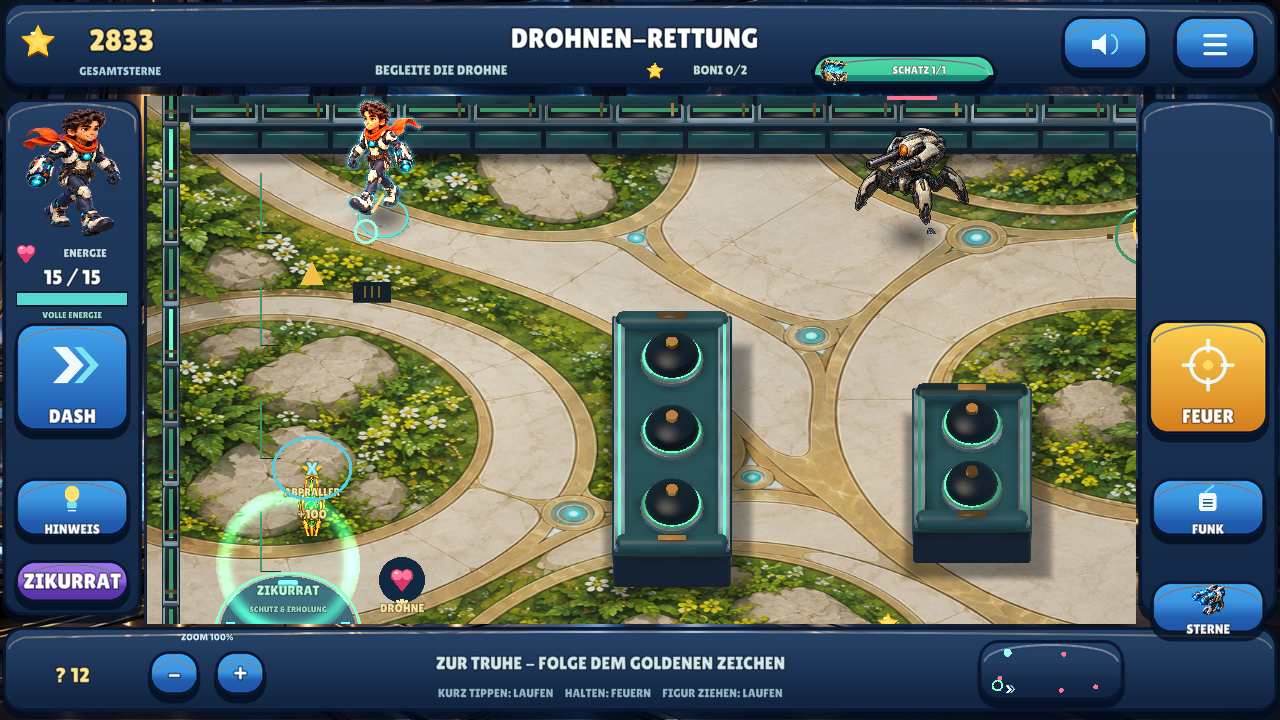
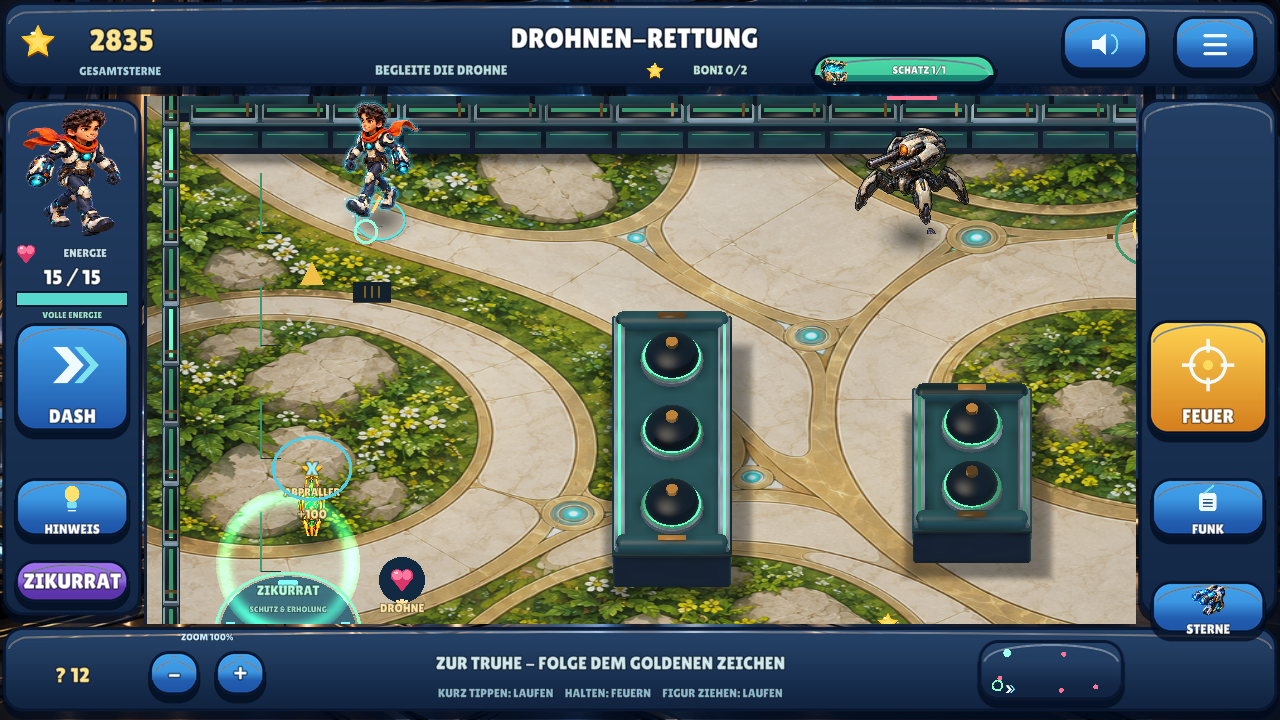
fix: keep tactical menus readable at maximum scene zoom

Changed region(s): [[0.25, 0.1222, 0.3438, 0.3361], [0.0938, 0.0306, 0.125, 0.0611]]

diff --git a/tools/check_defold.py b/tools/check_defold.py
@@ -20,6 +20,7 @@ with tempfile.TemporaryDirectory(prefix='energyblast-defold-test-',dir='/tmp')as
  commands.append(['xvfb-run','-a','-s','-screen 0 1600x1600x24',sys.executable,str(ROOT/'tools/check_defold_resilience_ui.py'),'--engine',str(a.sdk/'dmengine')])
  commands.append(['xvfb-run','-a','-s','-screen 0 1600x1600x24',sys.executable,str(ROOT/'tools/check_defold_polish_ui.py'),'--engine',str(a.sdk/'dmengine')])
  commands.append(['xvfb-run','-a','-s','-screen 0 1600x1600x24',sys.executable,str(ROOT/'tools/check_defold_hero_glow.py'),'--engine',str(a.sdk/'dmengine')])
+ commands.append(['xvfb-run','-a','-s','-screen 0 1600x1600x24',sys.executable,str(ROOT/'tools/check_defold_traps.py'),'--engine',str(a.sdk/'dmengine'),'--zoom','1.75'])
  for i,cmd in enumerate(commands):
   process=subprocess.Popen(cmd,env=env,stdout=subprocess.PIPE,stderr=subprocess.STDOUT,text=True,cwd=ROOT,start_new_session=True)
   try:log,_=process.communicate(timeout=90)
@@ -28,6 +29,6 @@ with tempfile.TemporaryDirectory(prefix='energyblast-defold-test-',dir='/tmp')as
   code=process.returncode
   if code or 'ERROR:'in log:print(log[-7000:]);raise SystemExit(code or 1)
   if i>0:
-   expected=r'DEFOLD COMBAT: \d+ native checks PASS'if i==1 else('DEFOLD SAVE WRITE PASS'if i==2 else'DEFOLD SAVE RESTART PASS'if i==3 else'DEFOLD NATIVE MENU AND FIRE CLICK PASS'if i in [4,7] else'DEFOLD ACTUAL MUSIC OUTPUT / MUTE PASS'if i==5 else'DEFOLD NATIVE FIELD TRAP CANCEL / THREE TYPES / BATTLEFIELD COORDINATES PASS'if i==8 else'DEFOLD NATIVE HERO / SPENDING / TREASURE / BONUS / NEXT FLOW PASS'if i==9 else'DEFOLD NATIVE HOLD FIRE / IMMEDIATE PADDED TARGET / DRAG / BUFFER PASS'if i==10 else'DEFOLD ACTUAL ENERGY SHIELD PIXEL PASS'if i==11 else'DEFOLD NATIVE REFILL / WEAPON / ARMOR / SANCTUARY PASS'if i==12 else'DEFOLD NATIVE ZOOM / SIX TREASURES / HINTS PASS'if i==13 else'DEFOLD ACTUAL HERO SHIMMER PIXEL PASS'if i==14 else'DEFOLD ACTUAL WALL OCCLUSION PASS')
+   expected=r'DEFOLD COMBAT: \d+ native checks PASS'if i==1 else('DEFOLD SAVE WRITE PASS'if i==2 else'DEFOLD SAVE RESTART PASS'if i==3 else'DEFOLD NATIVE MENU AND FIRE CLICK PASS'if i in [4,7] else'DEFOLD ACTUAL MUSIC OUTPUT / MUTE PASS'if i==5 else'DEFOLD NATIVE FIELD TRAP CANCEL / THREE TYPES / BATTLEFIELD COORDINATES PASS'if i==8 else'DEFOLD NATIVE HERO / SPENDING / TREASURE / BONUS / NEXT FLOW PASS'if i==9 else'DEFOLD NATIVE HOLD FIRE / IMMEDIATE PADDED TARGET / DRAG / BUFFER PASS'if i==10 else'DEFOLD ACTUAL ENERGY SHIELD PIXEL PASS'if i==11 else'DEFOLD NATIVE REFILL / WEAPON / ARMOR / SANCTUARY PASS'if i==12 else'DEFOLD NATIVE ZOOM / SIX TREASURES / HINTS PASS'if i==13 else'DEFOLD ACTUAL HERO SHIMMER PIXEL PASS'if i==14 else'DEFOLD NATIVE FIELD TRAP CANCEL / THREE TYPES / BATTLEFIELD COORDINATES PASS'if i==15 else'DEFOLD ACTUAL WALL OCCLUSION PASS')
    assert re.search(expected,log),log
    print('\n'.join(line for line in log.splitlines()if 'PASS'in line))

diff --git a/tools/check_defold_traps.py b/tools/check_defold_traps.py
@@ -7,7 +7,7 @@ import argparse,ctypes,os,re,subprocess,tempfile,time
 from pathlib import Path
 from PIL import ImageGrab
 ROOT=Path(__file__).resolve().parents[1]
-p=argparse.ArgumentParser();p.add_argument('--engine',type=Path,default=Path('/tmp/energyblast-defold-tools/dmengine'));p.add_argument('--project',type=Path,default=ROOT/'pilots/defold');p.add_argument('--output',type=Path);a=p.parse_args()
+p=argparse.ArgumentParser();p.add_argument('--engine',type=Path,default=Path('/tmp/energyblast-defold-tools/dmengine'));p.add_argument('--project',type=Path,default=ROOT/'pilots/defold');p.add_argument('--output',type=Path);p.add_argument('--zoom',type=float,default=1);a=p.parse_args()
 x=ctypes.CDLL('libX11.so.6');x.XOpenDisplay.restype=ctypes.c_void_p;display=x.XOpenDisplay(None);assert display
 xt=ctypes.CDLL('libXtst.so.6');xt.XTestFakeMotionEvent.argtypes=[ctypes.c_void_p,ctypes.c_int,ctypes.c_int,ctypes.c_int,ctypes.c_ulong];xt.XTestFakeButtonEvent.argtypes=[ctypes.c_void_p,ctypes.c_uint,ctypes.c_int,ctypes.c_ulong];x.XFlush.argtypes=[ctypes.c_void_p]
 def click(px,py,duration=.07):
@@ -34,7 +34,7 @@ with tempfile.TemporaryDirectory(prefix='energyblast-native-traps-',dir='/tmp')a
   def screenshot(name):
    if a.output:ImageGrab.grab().crop((0,0,1280,720)).save(state/(name+'.png'))
   with log.open('w')as stream:
-   process=subprocess.Popen([str(a.engine),'--config=project.capture_mode=1','--config=project.capture_sector=4','--config=project.trap_test=1',str(a.project/'build/default/game.projectc')],env=env,stdout=stream,stderr=subprocess.STDOUT)
+   process=subprocess.Popen([str(a.engine),'--config=project.capture_mode=1','--config=project.capture_sector=4','--config=project.trap_test=1','--config=project.capture_zoom='+str(a.zoom),str(a.project/'build/default/game.projectc')],env=env,stdout=stream,stderr=subprocess.STDOUT)
    try:
     badge=coordinates('DEFOLD FIELD TRAP READY');click(*badge)
     wait_for('DEFOLD FIELD TRAP CATALOGUE PASS shots=0');screenshot('catalogue')

diff --git a/docs/QUALITY.md b/docs/QUALITY.md
@@ -11,13 +11,13 @@
 | Tatsächliche Zoom-Ausgabe | **PASS**, echte Plus-/Minus-Klicks, mehr als 5.000 veränderte Weltpixel und passende projizierte Figurengröße; feste HUD-Größe |
 | Sechs Schatzfunde | **PASS**, echte Hinweise, echte Wege und Aufnahme je 75 Sterne, 0 Schüsse; im Testprofil Gesamtstand 2.400 → 2.850 |
 | Schatzregeln | **PASS**, erreichbare Such-/Fundpunkte, Entdeckung/Speicherung, Sichtlinie, keine Aufnahme durch Wände/Tore, keine Doppelbelohnung oder erneute Hinweiskosten |
-| Bisherige tatsächliche GUI | **PASS**, fünf direkte Gesten, Helden/Käufe/Missionen/Fallen/Schutzort/Heilung und beide Fensterformate |
+| Bisherige tatsächliche GUI | **PASS**, fünf direkte Gesten, Helden/Käufe/Missionen/Fallen/Schutzort/Heilung und beide Fensterformate; Fallenbedienung zusätzlich bei 175% Zoom |
 | Getrennte Speicherprozesse | **PASS**, Sterne, Guthaben, Käufe, Figur, Hinweise, Musik; Zoom und Schatzentdeckung zusätzlich rekonstruiert |
 | HD-Figuren | **PASS**, 3 Atlanten 1536×1024, 24 unterschiedliche transparente Zellen, alte Quellen erhalten, aktive Modell-/Shaderbindungen |
 | Native Schimmerausgabe | **PASS**, an/aus 2.937 veränderte Pixel; sechs begrenzte native Lichtobjekte |
 | Native Geschossverdeckung | **PASS**, verdeckt 0 Pixel; sichtbarer Kontrollfall 328 Pixel |
 | Native Energieschild-Ausgabe | **PASS**, an/aus 15.701 veränderte Pixel |
-| Tatsächliche Audioausgabe | **PASS**, Musik an RMS 0,01342, aus 0, Mischung 0,04256; kein gemessener Überlauf |
+| Tatsächliche Audioausgabe | **PASS**, Musik an RMS 0,01346, aus 0, Mischung 0,04235; kein gemessener Überlauf |
 | Sprache | **32/32 technisch PASS**, 2 neue Ansagen frisch unabhängig ASR-exakt, 30 vorherige samt Metadaten unverändert |
 | Eigene Sichtprüfung | Neue drei Atlanten, Figurenwahl, sechs Hinweisaufnahmen, Zoomvergleich und native Bewegungssequenz angesehen |
 | APK 0.11.0 / Code 12 | **PASS**, sauberer Quellstand, Paket/APIs/Querformat, keine Berechtigungen, Backup aus, v2-Signatur und gleiches Zertifikat wie 0.10, ZIP-CRC, keine Schlüsseldateien, 16-KB-ZIP-Ausrichtung, 828 identische Projektdateien und Android-Shaderexport |

diff --git a/docs/MILESTONE_10.md b/docs/MILESTONE_10.md
@@ -39,7 +39,8 @@ bleiben weg und zahlen keine Sterne ein zweites Mal.
 Plus/Minus unten links oder zwei Finger auf freiem Spielfeld verändern die Ansicht
 zwischen **75 und 175 Prozent**. Alle nativen Weltobjekte und Figuren verwenden
 zusammen dieselbe Kameramatrix; Touchrückprojektion und Zielbereiche folgen ihr.
-Welttexte werden bei Vergrößerung ebenfalls größer. HUD und Bedientasten behalten
+Welttexte werden bei Vergrößerung ebenfalls größer. Fallenmenü und taktische Bedientexte behalten ebenfalls ihre feste Bildschirmgröße.
+HUD und Bedientasten behalten
 ihre Größe und liegen weiterhin außerhalb der Arena.
 
 Die Stelle zwischen den beiden Fingern bleibt beim Zoomen möglichst am selben
@@ -56,6 +57,7 @@ vom Betreiber verlangte sofortige Gegnerreaktion.
 
 ![Vergrößerte native Ansicht](images/11-defold-zoom-close.png)
 ![Weitere Übersicht](images/11-defold-zoom-wide.png)
+![Fallenmenü bei 175 Prozent](images/11-defold-traps-max.png)
 
 ## Figurenbilder und tatsächliche Animation
 
@@ -90,7 +92,9 @@ Truhen werden durch echte Bewegung gesammelt, nicht per Fixture vergeben.
 - Echte Plus-/Minus-Klicks verändern Weltpixel und die projizierte Figurengröße.
   Derselbe Lauf findet **alle sechs Truhen mit je 75 Sternen und null Schüssen**.
 - Alle bisherigen echten Gesten, Menüs, Käufe, Fallen, Speicherneustarts,
-  Schutzort-/Heilungstests und beide Fensterformate bestehen weiterhin.
+  Schutzort-/Heilungstests und beide Fensterformate bestehen weiterhin. Alle drei
+  Fallen wurden zusätzlich bei 175% Zoom ausgewählt und gesetzt; auch der Abbruch
+  wurde geprüft.
 - Schimmer an/aus: **2.937 geänderte native Pixel**. Geschossverdeckung: 0 Pixel
   hinter der Wand, 328 im sichtbaren Kontrollfall. Energieschild: 15.701 Pixel.
 - **32/32 Sprachdateien technisch geprüft**, zwei neue Ansagen frisch unabhängig

diff --git a/docs/BUILD_AND_TEST.md b/docs/BUILD_AND_TEST.md
@@ -92,7 +92,7 @@ python3 tools/check_defold.py
 - `check_defold_resilience_ui.py` prüft tatsächliche Heilung ohne Doppelabbuchung, Waffen-/Rüstungsstufen, alle drei Shopkategorien sowie den echten Weg in den Schutzort mit gezählten Geschossabsorptionen und Erholung.
 - `check_defold_direct_touch.py` prüft fünf neue echte Gesten, ausdrücklich vor dem Loslassen. `check_defold_energy.py` vergleicht tatsächliche Pixel mit Schild an/aus.
 - `check_defold_flow_ui.py` prüft zusätzlich drei reale GUI-Abläufe für Heldenwahl/Käufe, Weiter trotz offenem Schatz und freiwillige Suche mit anschließendem Weiter.
-- `check_defold_traps.py` prüft zusätzlich echte Bildschirmtaps für alle drei Fallen und Abbruch, vollständig innerhalb der Arena.
+- `check_defold_traps.py` prüft zusätzlich echte Bildschirmtaps für alle drei Fallen und Abbruch, vollständig innerhalb der Arena, zusätzlich bei 175% Zoom.
 - `check_defold_audio.py` zeichnet drei echte native Ausgaben mit OpenALs
   WAVE-Backend auf: Musik an, Musik aus und Musik/Sprache/Explosion gemischt.
   Signal/RMS und Pegel werden geprüft. Das ist keine menschliche Klangabnahme.
